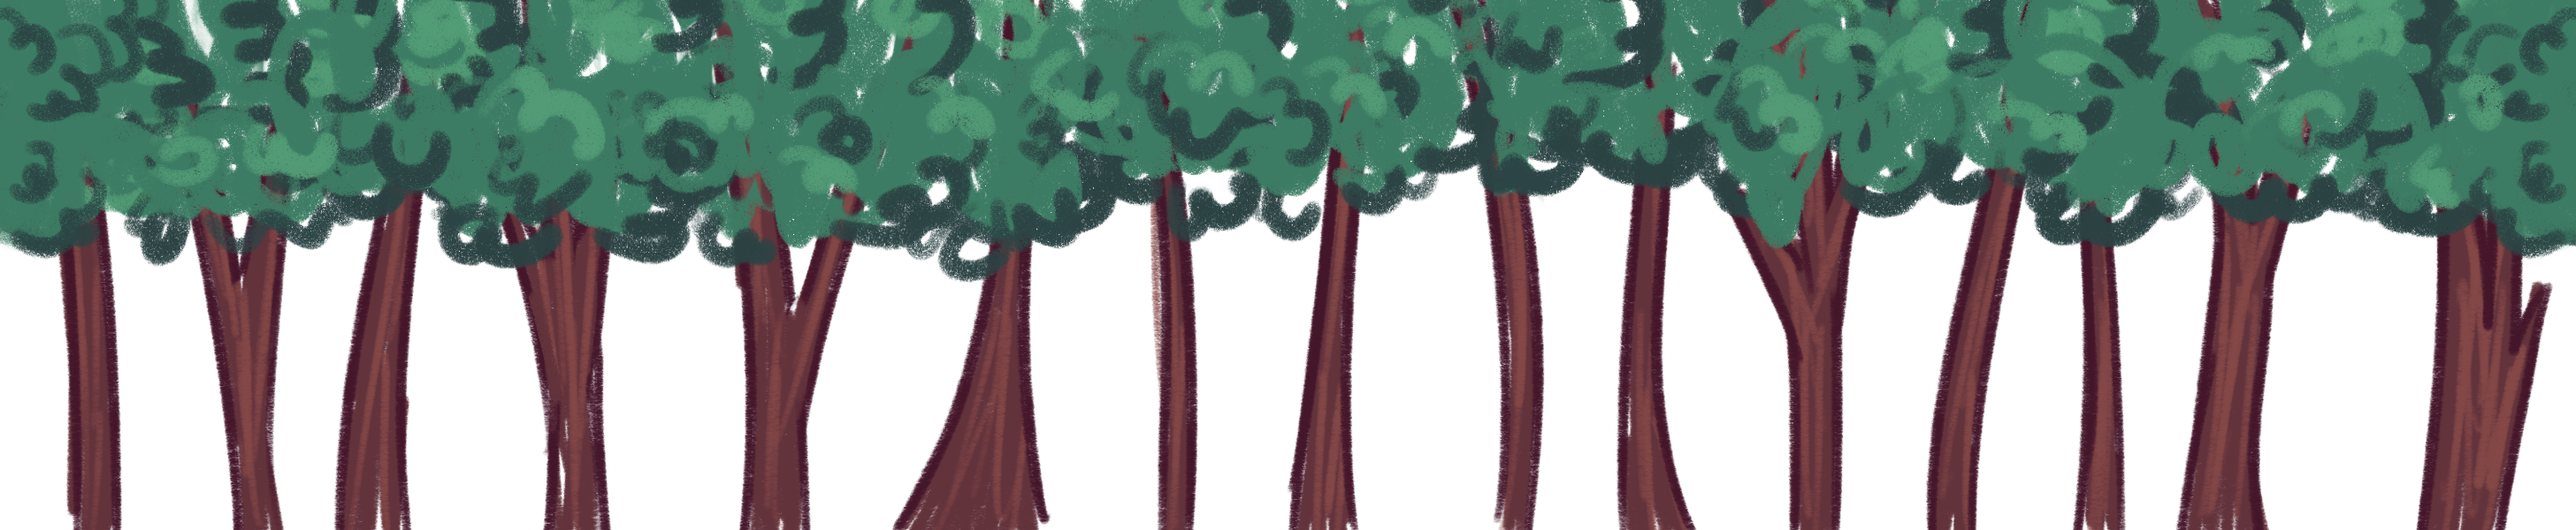
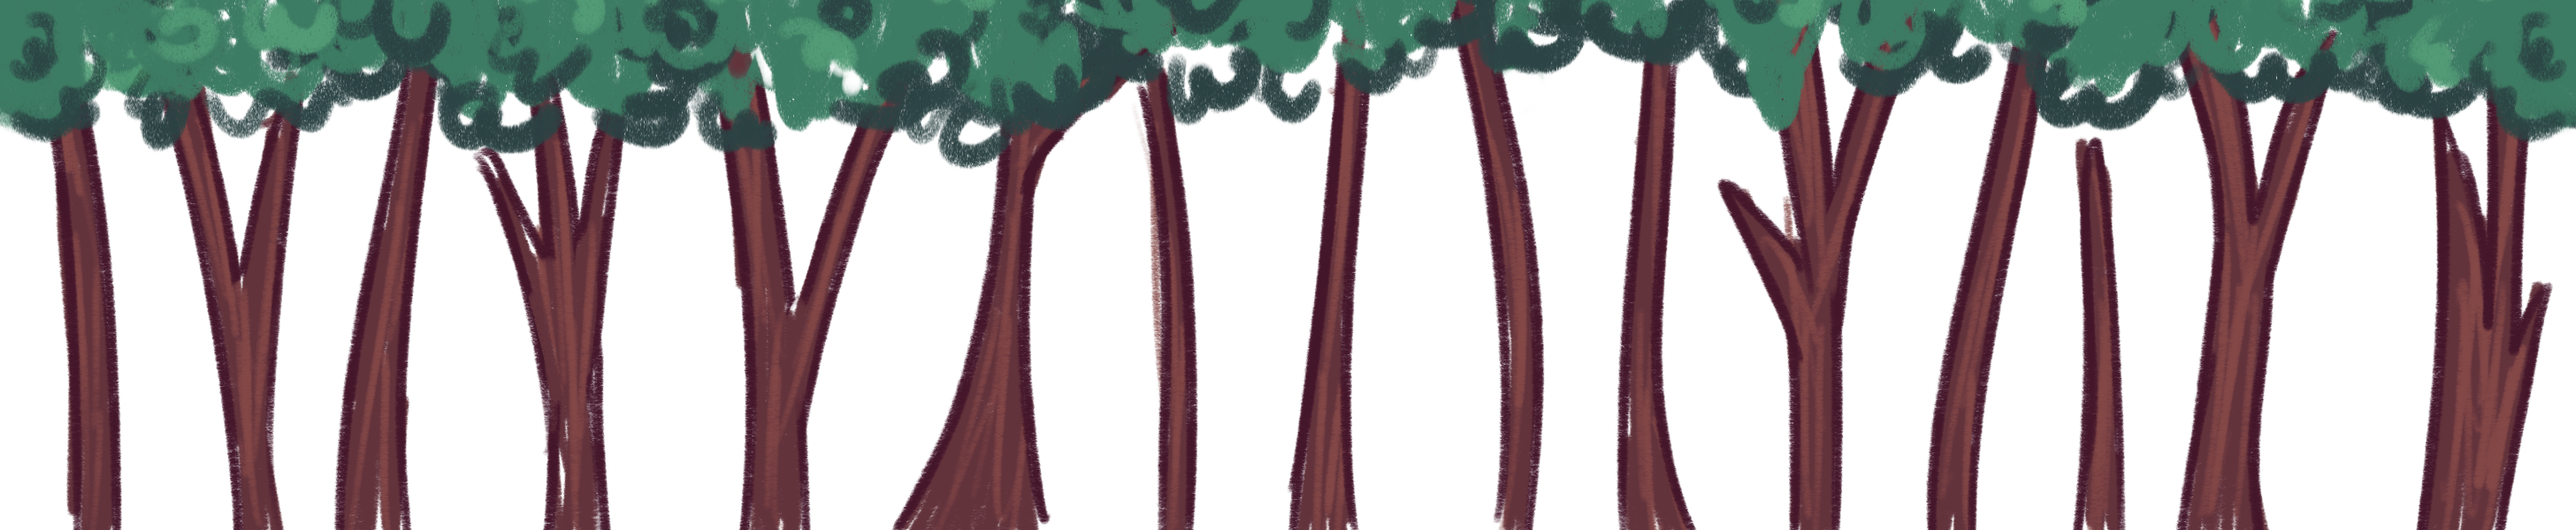
changed trees, added old bg back

diff --git a/src/scenes/Play.js b/src/scenes/Play.js
@@ -21,6 +21,7 @@ class Play extends Phaser.Scene {
         this.load.image('student', './assets/student.png');
         this.load.image('gameover', './assets/game_over.png');
         this.load.image('bg', './assets/bg.png');
+        this.load.image('forest', './assets/forest.png');
         // load spritesheet
         this.load.spritesheet('guy', './assets/spritesheet.png', {frameWidth: 393, frameHeight: 494, startFrame: 0, endFrame: 12});
         this.load.spritesheet('run', './assets/run_spritesheet.png', {frameWidth: 457, frameHeight: 577, startFrame: 0, endFrame: 16});
@@ -36,10 +37,11 @@ class Play extends Phaser.Scene {
     create() {
         // background
         this.notebookbg = this.add.tileSprite(0, 0, 970, 600, 'notebookbg').setOrigin(0, 0);
+        this.forest = this.add.tileSprite(0, 0, 970, 600, 'forest').setOrigin(0, 0);
         this.trees = this.add.tileSprite(0, 0, 970, 600, 'trees').setOrigin(0, 0);
         this.animals = this.add.tileSprite(0, 0, 970, 600, 'animals').setOrigin(0, 0);
         this.bush_bg = this.add.tileSprite(0, 0, 970, 600, 'bush_bg').setOrigin(0, 0);
-        this.bushes = this.add.tileSprite(0, 0, 970, 600, 'bushes').setOrigin(0, 0)
+        this.bushes = this.add.tileSprite(0, 0, 970, 600, 'bushes').setOrigin(0, 0);
         //this.clouds = this.add.tileSprite(0, 0, 0, 0, 'clouds').setOrigin(0, 0);
 
         // ground
@@ -183,6 +185,7 @@ class Play extends Phaser.Scene {
         this.animals.tilePositionX += this.spd / 4;
         this.bush_bg.tilePositionX += this.spd / 2;
         this.bushes.tilePositionX += this.spd;
+        this.forest.tilePositionX += this.spd / 5;
 
         this.groundObj.tilePositionX += this.spd;
 
